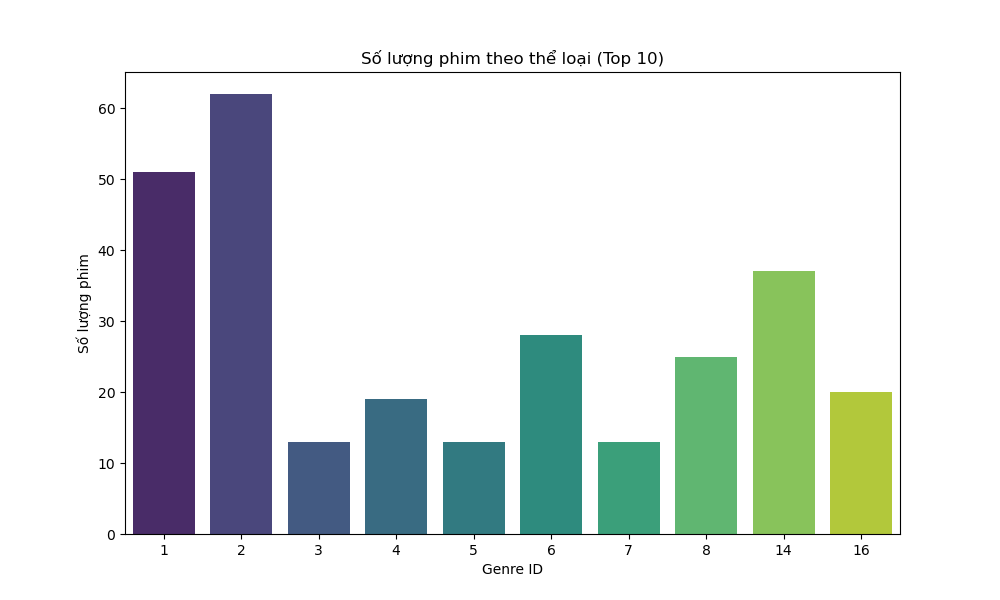
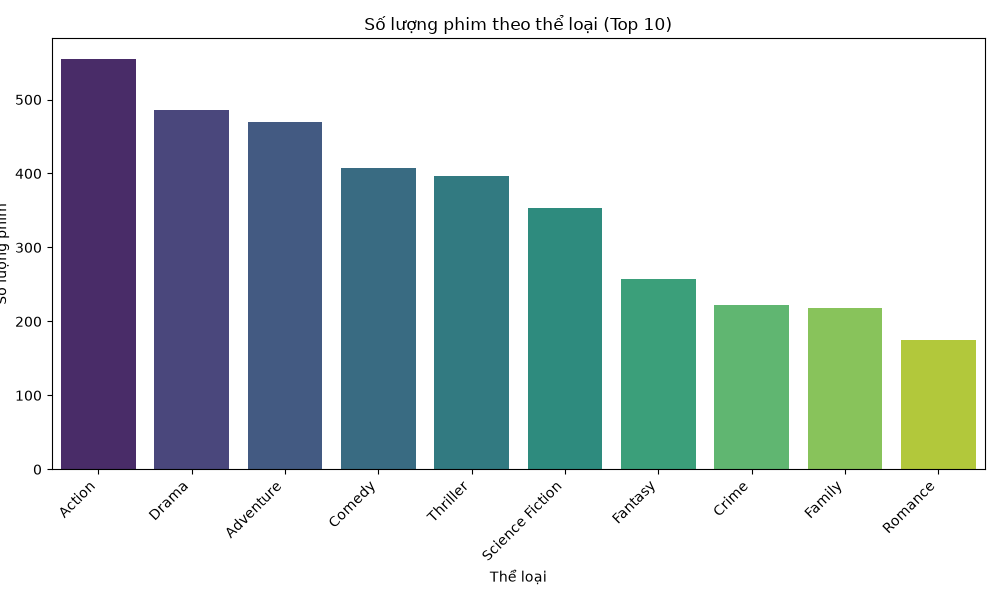
Pig/Spark/bieu do doc dataset/clean, sua cot TopNMovies, bieu do hien ten the loai

diff --git a/source-code/viz/visualize.py b/source-code/viz/visualize.py
@@ -5,18 +5,21 @@ import os
 
 os.makedirs("reports/figures", exist_ok=True)
 
-movies = pd.read_csv("dataset/sample/movies.tsv", sep="\t")
-genres = pd.read_csv("dataset/sample/movie_genres.tsv", sep="\t")
+movies = pd.read_csv("dataset/clean/movies.tsv", sep="\t")
+genres = pd.read_csv("dataset/clean/movie_genres.tsv", sep="\t")
 
 movies = movies.rename(columns={'movie_id': 'id', 'tmdb_vote_avg': 'rating', 'tmdb_vote_count': 'votes'})
 genres = genres.rename(columns={'movie_id': 'id', 'genre_id': 'genre'})
+# Doi genre_id sang ten the loai
+ten_tl = pd.read_csv("dataset/clean/genres.tsv", sep="\t")
+genres['genre'] = genres['genre'].map(dict(zip(ten_tl.genre_id, ten_tl.genre_name)))
 
 # 1. Bar: Số phim theo thể loại
 plt.figure(figsize=(10, 6))
 genre_counts = genres['genre'].value_counts().head(10)
 sns.barplot(x=genre_counts.index, y=genre_counts.values, palette="viridis")
 plt.title("Số lượng phim theo thể loại (Top 10)")
-plt.xlabel("Genre ID")
+plt.xlabel("Thể loại"); plt.xticks(rotation=45, ha="right"); plt.tight_layout()
 plt.ylabel("Số lượng phim")
 plt.savefig("reports/figures/1_bar_genre.png")
 plt.close()
@@ -56,7 +59,7 @@ plt.figure(figsize=(12, 8))
 sns.heatmap(pivot, cmap="YlGnBu", annot=False)
 plt.title("Phân bố thể loại theo thập niên")
 plt.xlabel("Thập niên")
-plt.ylabel("Genre ID")
+plt.ylabel("Thể loại")
 plt.savefig("reports/figures/5_heatmap_genre_decade.png")
 plt.close()
 

diff --git a/source-code/spark/avg_rating.py b/source-code/spark/avg_rating.py
@@ -4,8 +4,8 @@ from pyspark.sql.functions import col, avg, count
 spark = SparkSession.builder.appName("AvgRatingByGenre").getOrCreate()
 
 # THÊM file:// VÀO TRƯỚC ĐƯỜNG DẪN ĐỂ ĐỌC TRÊN Ổ CỨNG MÁY ẢO
-movies_df = spark.read.option("sep", "\t").option("header", "true").csv("file:///home/nhom06/06_PhanTichDuLieuPhim/dataset/sample/movies.tsv")
-genres_df = spark.read.option("sep", "\t").option("header", "true").csv("file:///home/nhom06/06_PhanTichDuLieuPhim/dataset/sample/movie_genres.tsv")
+movies_df = spark.read.option("sep", "\t").option("header", "true").csv("file:///home/nhom06/06_PhanTichDuLieuPhim/dataset/clean/movies.tsv")
+genres_df = spark.read.option("sep", "\t").option("header", "true").csv("file:///home/nhom06/06_PhanTichDuLieuPhim/dataset/clean/movie_genres.tsv")
 
 # Ép kiểu và lọc bỏ dòng lỗi
 movies_clean = movies_df.select(

diff --git a/source-code/tv3/mapreduce/TopNMovies.java b/source-code/tv3/mapreduce/TopNMovies.java
@@ -24,8 +24,8 @@ public class TopNMovies {
             // Bỏ qua dòng tiêu đề (vì nó có chữ "movie_id" hoặc cột không phải số)
             if (fields.length >= 16 && !line.contains("movie_id")) {
                 try {
-                    double rating = Double.parseDouble(fields[14].trim()); // Cột 15
-                    double votes = Double.parseDouble(fields[15].trim());  // Cột 16
+                    double rating = Double.parseDouble(fields[15].trim()); // Cột 15
+                    double votes = Double.parseDouble(fields[14].trim());  // Cột 16
                     String title = fields[2].trim(); // Cột 3
 
                     if (votes >= MIN_VOTES) {
